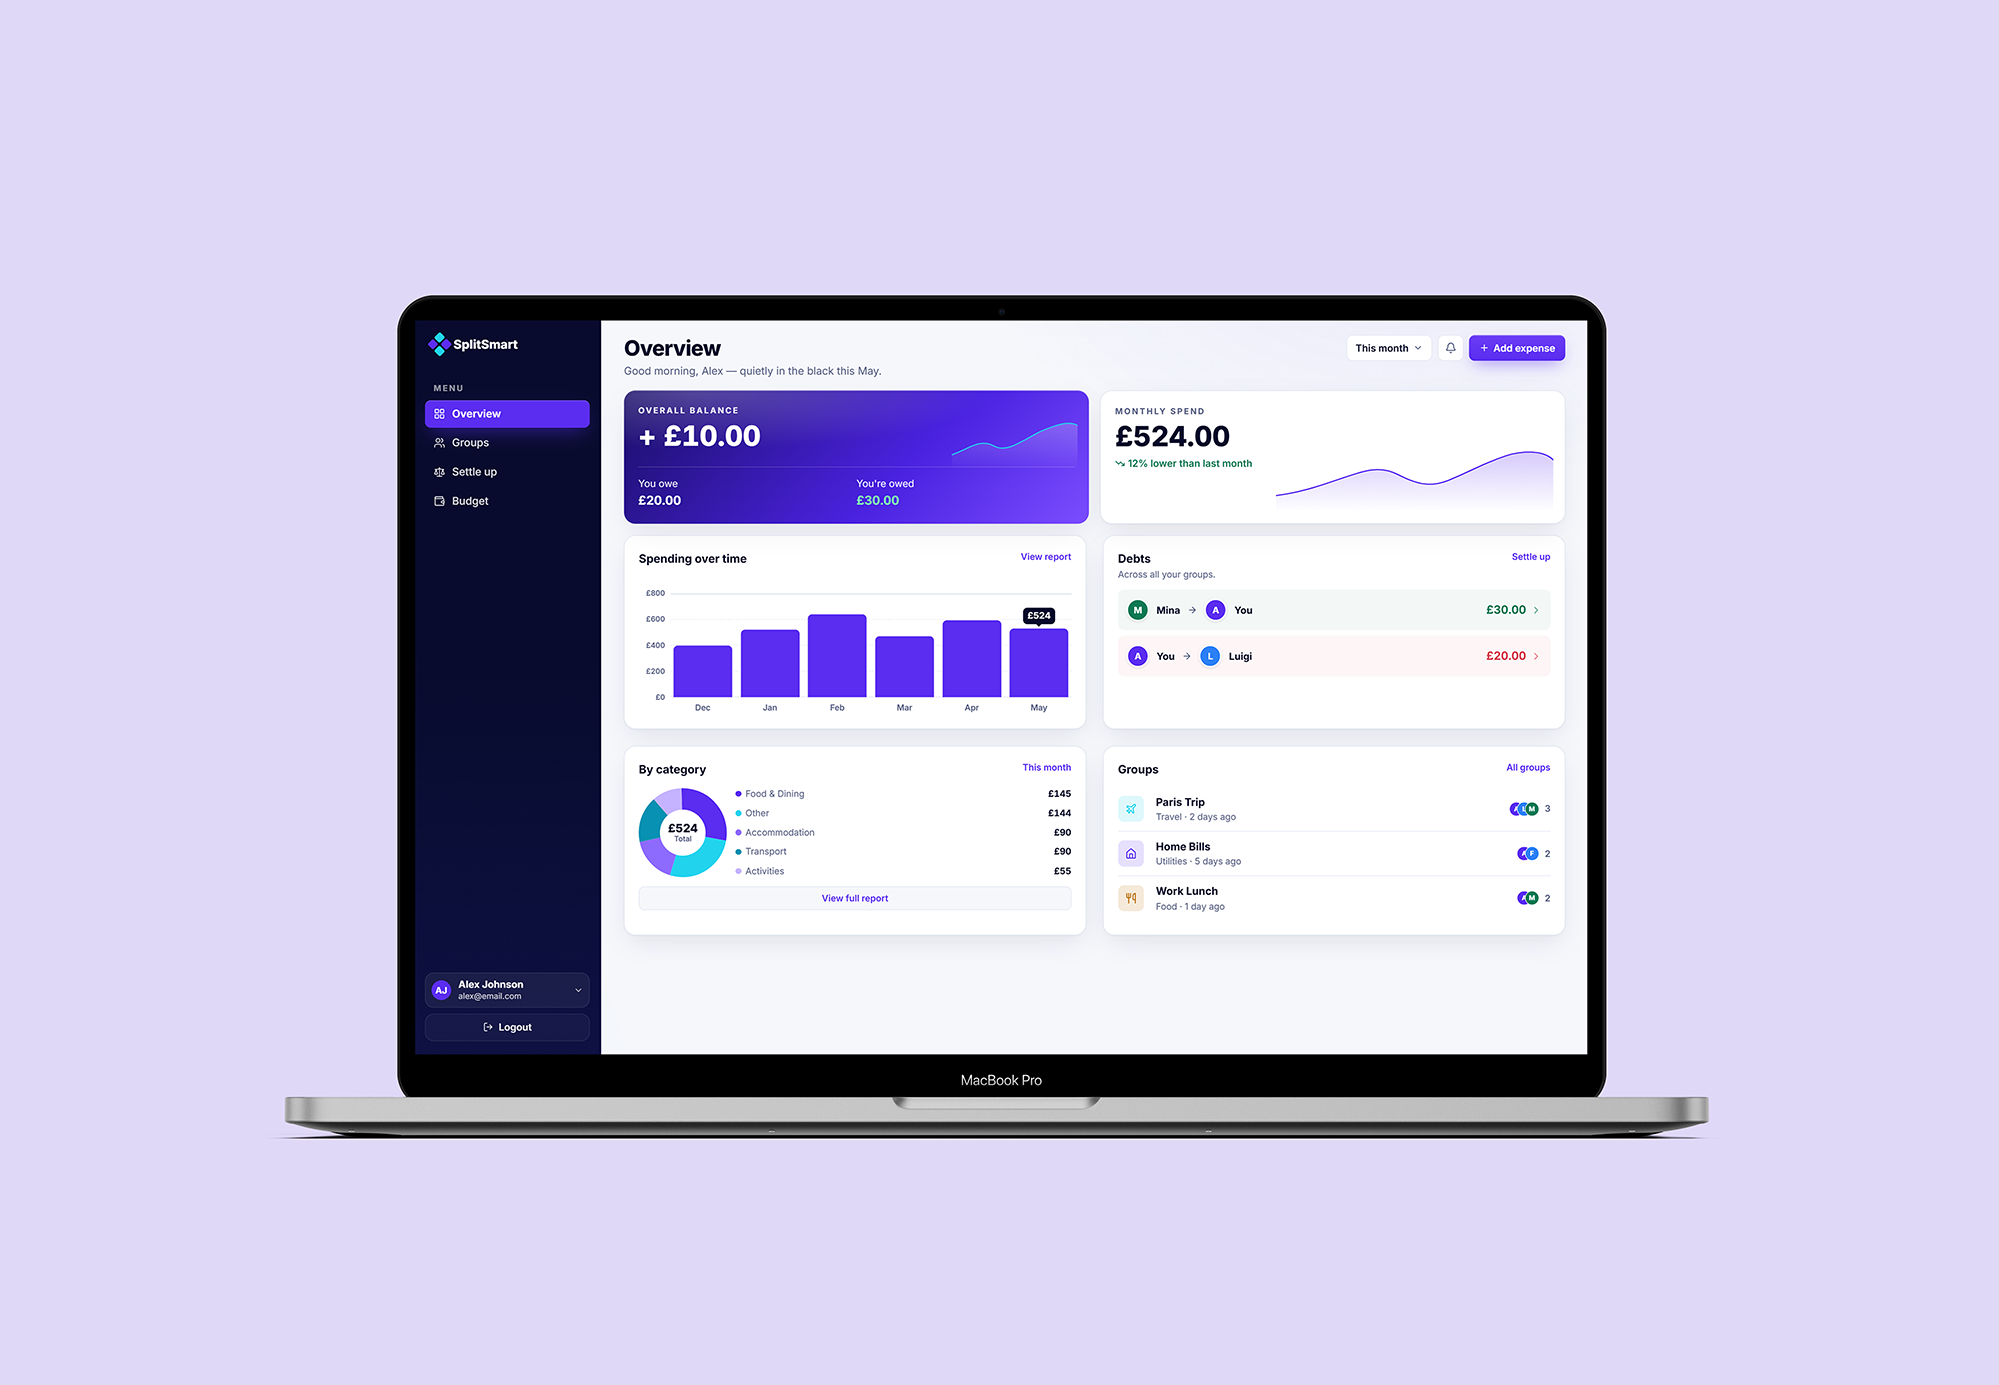
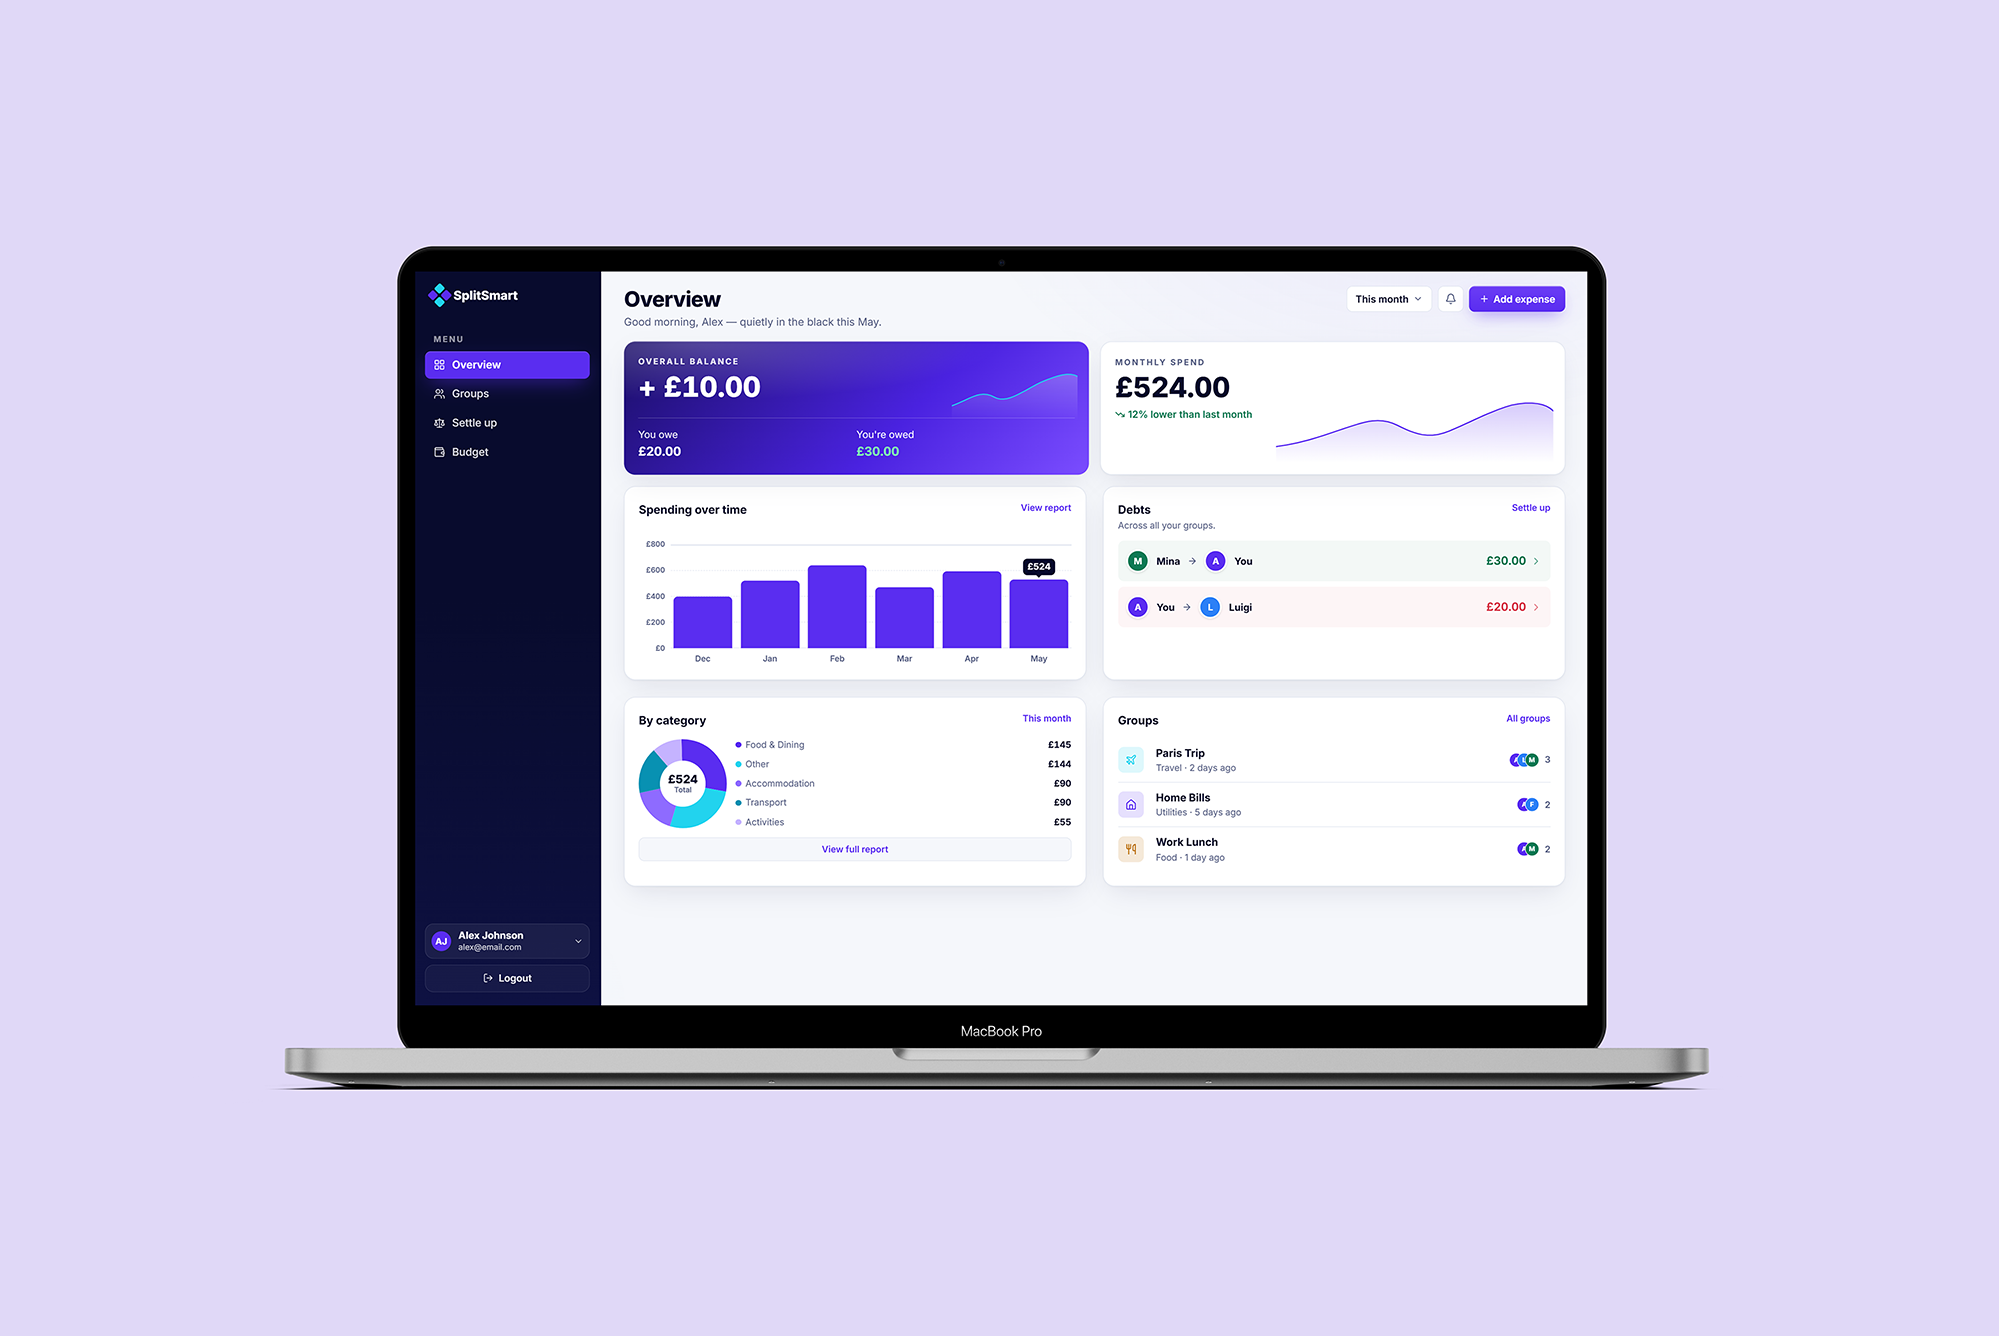
Update case study hero and homepage work previews

diff --git a/index.html b/index.html
@@ -561,7 +561,7 @@
 
     <div class="work-grid">
       <article class="work-card">
-        <div class="work-preview" style="background:#e0d8f7"><img src="splitsmart-case-study/visuals/splitsmart-home-mock.png" alt="SplitSmart Overview dashboard shown on a MacBook Pro"></div>
+        <div class="work-preview" style="background:#e0d8f7"><img style="transform: scale(1.16)" src="splitsmart-case-study/visuals/splitsmart-home-mock.png" alt="SplitSmart Overview dashboard shown on a MacBook Pro"></div>
         <div class="work-body">
           <div>
             <div class="work-head-row">
@@ -584,7 +584,7 @@
       </article>
 
       <article class="work-card">
-        <div class="work-preview" style="background:#d5fbef"><img src="dino_studio_case_study/visuals/dino-home-mock.png" alt="Dino Studio app — Latest news and Find all dinosaurs pages shown on a laptop with a long scrolling page"></div>
+        <div class="work-preview" style="background:#f4efe1"><img style="transform: scale(0.88)" src="dino_studio_case_study/visuals/dino-home-imacs.png" alt="Dino Studio app shown on two desktop displays — the search, map, and results view in light mode beside the homepage in dark mode"></div>
         <div class="work-body">
           <div>
             <div class="work-head-row">
@@ -607,7 +607,7 @@
       </article>
 
       <article class="work-card">
-        <div class="work-preview" style="background:#d9ead7"><img src="homelon_case_study/visuals/homelon-home-mock.png" alt="Homelon shown on two iPhones — a property detail for The Berlin Retreat and the map search results screen"></div>
+        <div class="work-preview" style="background:#d9ead7"><img style="transform: scale(1.0)" src="homelon_case_study/visuals/homelon-home-mock.png" alt="Homelon shown on two iPhones — a property detail for The Berlin Retreat and the map search results screen"></div>
         <div class="work-body">
           <div>
             <div class="work-head-row">

diff --git a/dino_studio_case_study/index.html b/dino_studio_case_study/index.html
@@ -439,7 +439,7 @@
 
   <div class="b-cover">
     <div class="b-cover-body">
-      <img class="b-cover-image" src="visuals/dino-laptop-tablet-phone.png" alt="Dino Studio's Find all dinosaurs app shown on a laptop, tablet, and iPhone — search, locations map, dinosaur-type and diet charts, and dinosaur lists">
+      <img class="b-cover-image" src="visuals/dino-hero-macbook.png" alt="Dino Studio's Find all dinosaurs homepage shown on a MacBook Pro — the hero with a featured dinosaur illustration">
     </div>
   </div>
 
